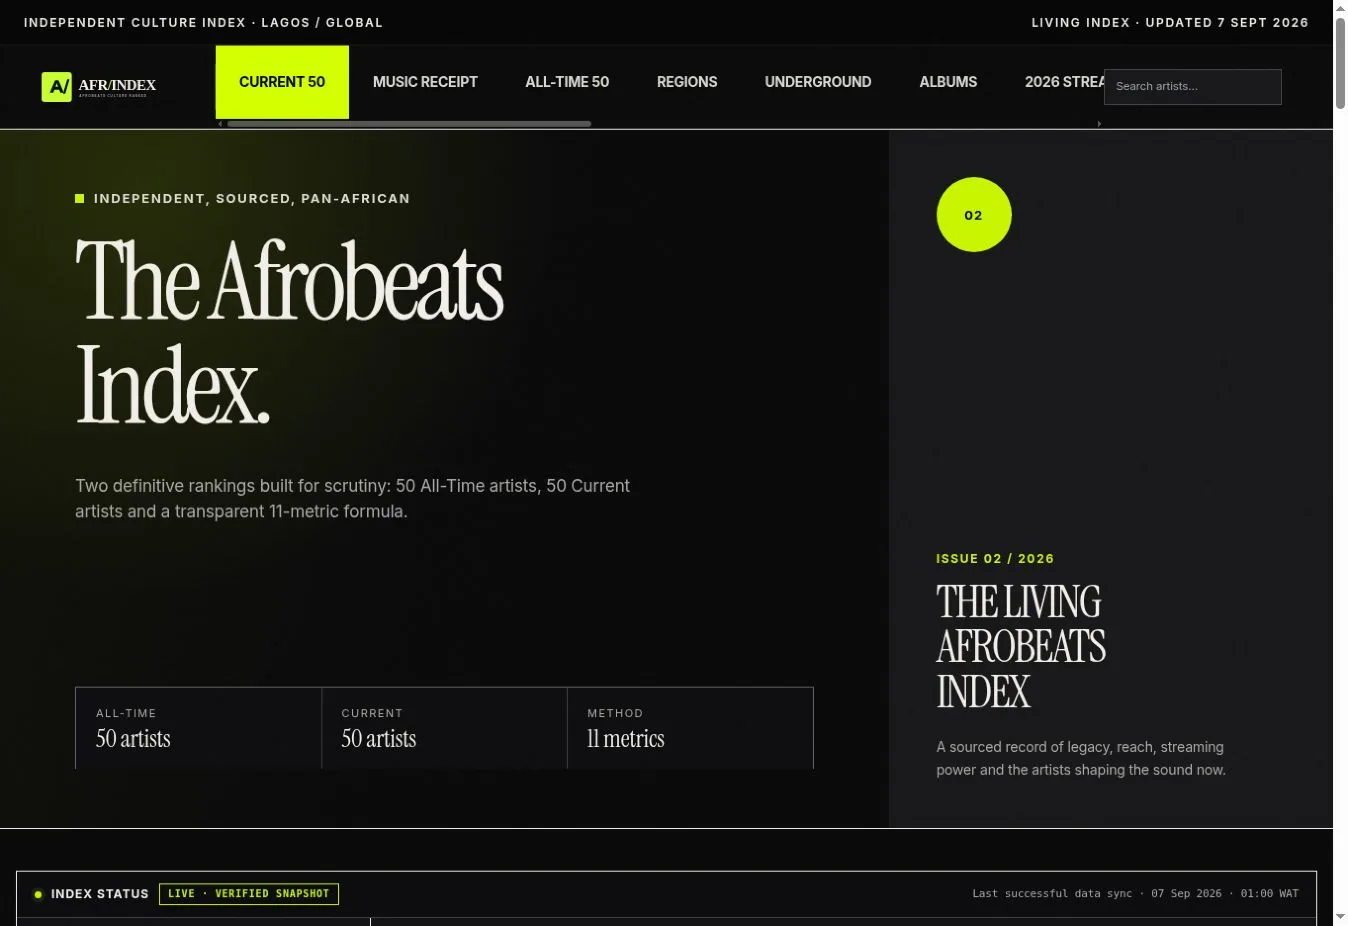
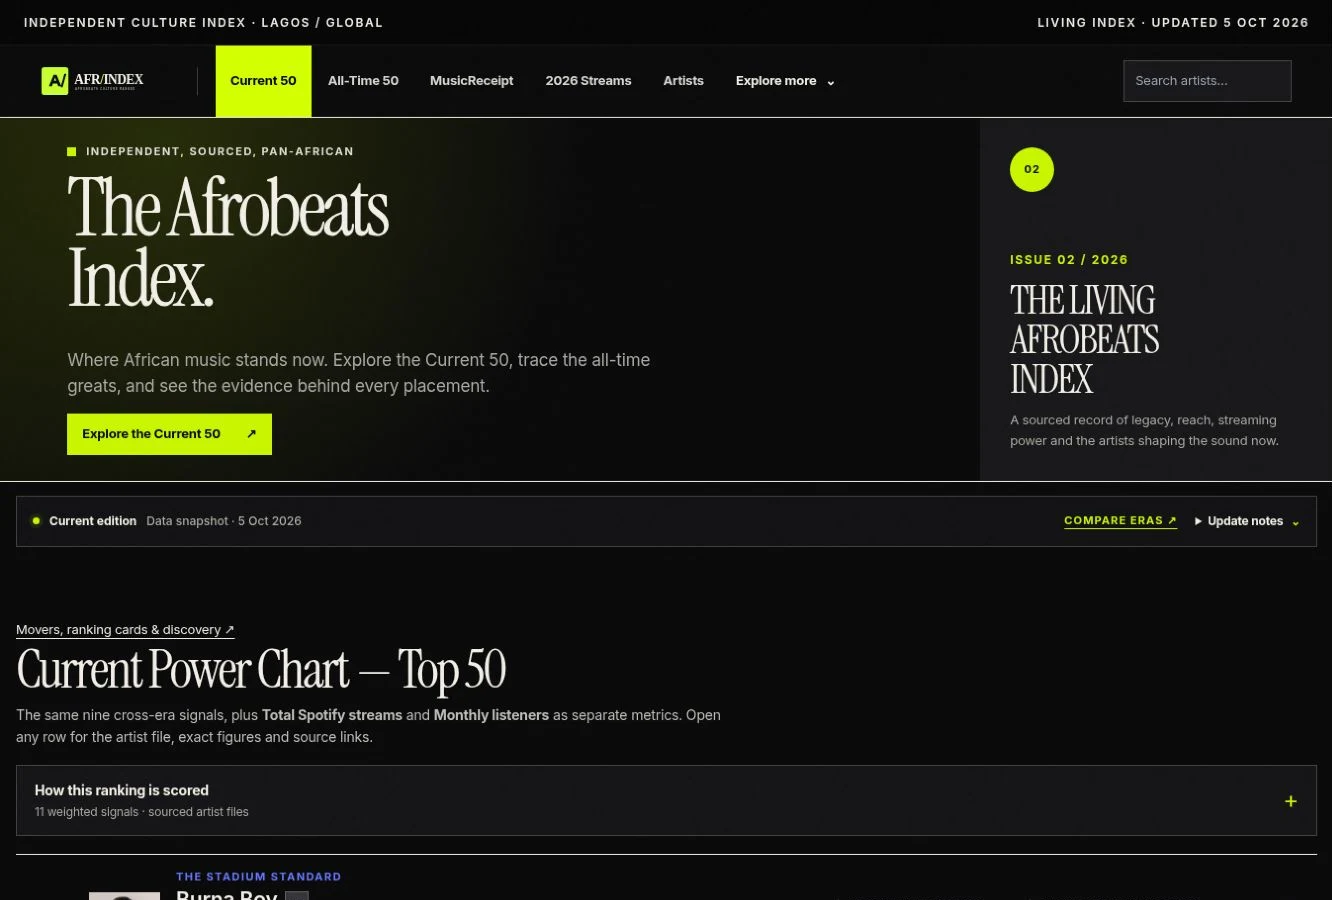
Feature recent portfolio work, services and direct contact
Add Matong sample ERP, wedding invitation and Dev Boyz case studies; prioritize Matong, Afri Index and TerraScope. Refresh atlas/music previews, document current trip planning, and add services plus WhatsApp contact.

diff --git a/src/projects.ts b/src/projects.ts
@@ -2,11 +2,57 @@ export type Project = {
   id: string; title: string; tags: string[]; status: string; why: string;
   built: string; learned: string; challenge: string; outcome: string; tech: string[];
   links: { label: string; href: string }[];
-  image?: string; previewNote?: string;
+  image?: string; previewNote?: string; role?: string; summary?: string;
   companion?: { title: string; description: string; href: string; github: string; image?: string };
 };
 
 export const projects: Project[] = [
+  {
+    id: "matong",
+    title: "Matong Energy — Operations ERP",
+    tags: ["Client project", "Business systems", "Full-stack"],
+    status: "Working ERP · handover in progress",
+    role: "Interface, application workflows & database integration",
+    summary: "Personnel, purchasing, inventory and finance in one workspace, with permissions enforced beyond the interface.",
+    why: "Matong needed its day-to-day operations connected: people, purchase approvals, stock movements, invoices and project records. The system brings those tasks into one workspace with different access for each staff role.",
+    built: "A Next.js operations suite with personnel and leave management, purchasing approvals, warehouse receipts and issues, invoices and payments, engineering tasks, reports and a private document archive. Supabase provides authentication, Postgres and file storage.",
+    learned: "Business rules belong in the database as well as the interface. Role policies, version checks and protected audit records help keep an action consistent even when a request bypasses the screen.",
+    challenge: "Connecting purchasing, stock and finance without allowing duplicate postings, negative stock or one person's edit to silently replace another's. Approval and document access also need to follow the company's actual responsibilities.",
+    outcome: "A working operations suite with six staff roles and a separate browser-local sample workspace. Client handover and production acceptance checks are still in progress.",
+    tech: ["Next.js", "React", "TypeScript", "Supabase Auth", "PostgreSQL", "Row-level security", "Private storage"],
+    links: [{ label: "Explore sample workspace", href: "https://matong-erp.vercel.app/demo" }],
+    previewNote: "The linked demo uses sample records stored in your browser. It is separate from the company's staff portal and private documents.",
+  },
+  {
+    id: "wedding",
+    title: "#BlessingFoundHerBlessing — Wedding Website",
+    tags: ["Event website", "Design & development"],
+    status: "Live invitation website",
+    role: "Visual design, responsive pages & event information",
+    why: "The families needed one place guests could find the traditional marriage details, read the couple's story and plan their visit. The invitation had to feel personal while making the practical information easy to reach.",
+    built: "A multi-page invitation with supplied photography, the couple's story, a countdown, programme, aso ebi information, venue directions and an Add to Calendar download. Burgundy, peach, champagne and ivory connect the pages to the celebration.",
+    learned: "An event website has two jobs: carry the family's voice and help a guest make a plan. Clear dates, readable names and direct navigation matter as much as the opening photograph.",
+    challenge: "Balancing the long hashtag, photographs and event information on small screens, while keeping navigation and the calendar action within easy reach.",
+    outcome: "A live invitation for the 12 December 2026 traditional marriage in Ughelli, with event details and calendar access across the public pages.",
+    tech: ["Next.js", "React", "TypeScript", "Responsive design", "Calendar integration", "Vercel"],
+    links: [{ label: "View invitation", href: "https://sample-wedding-mu.vercel.app" }],
+    previewNote: "Explore the live pages for the photographs, story, programme and directions. The calendar button downloads the event to your calendar app.",
+  },
+  {
+    id: "dev-boyz",
+    title: "Dev Boyz — Company & Project Library",
+    tags: ["Team project", "Company website", "Catalogue"],
+    status: "Live website · enquiry catalogue",
+    role: "Frontend & cloud engineering · Dev Boyz team",
+    why: "My team needed a clear introduction to our services and a place for students to explore software project ideas. The site connects those two audiences without making either hunt for the right next step.",
+    built: "A company website with services, selected work, team profiles and an enquiry flow, alongside a searchable library of 100 Computer Science and Software Engineering project topics. Visitors can filter topics and discuss the scope through WhatsApp.",
+    learned: "A catalogue needs useful categories and clear deliverables. The company pages explain who we are; the project library helps visitors narrow their idea before they speak to us.",
+    challenge: "Making 100 topics easy to browse on a phone while keeping the company website focused. The catalogue uses enquiries rather than presenting topics as ready-to-download purchases.",
+    outcome: "A live company presence and project enquiry catalogue. Scope, price and delivery are agreed with the team; automated checkout and instant project downloads are not part of the current site.",
+    tech: ["HTML", "CSS", "JavaScript", "JSON catalogue", "Responsive design", "Vercel"],
+    links: [{ label: "Visit Dev Boyz", href: "https://dev-boyz.vercel.app" }, { label: "Browse project topics", href: "https://dev-boyz.vercel.app/projects.html" }],
+    previewNote: "The company site introduces the team and services. The project library supports searching, filtering and a direct enquiry about a chosen topic.",
+  },
   {
     id: "squadhub",
     previewNote: "Mobile player platform and web organizer in development. The previous browser preview requires a Vercel login.",
@@ -87,6 +133,8 @@ export const projects: Project[] = [
   },
   {
     id: "afri-index",
+    role: "Product design, frontend development & editorial data",
+    summary: "A sourced Afrobeats index that makes its rankings, artist records and methodology open to inspection.",
     image: "/previews/afri.webp",
     title: "AFR/INDEX — The Living Afrobeats Index",
     tags: ["Editorial Data", "Music Analytics", "Frontend"],
@@ -121,15 +169,17 @@ export const projects: Project[] = [
   },
   {
     id: "terrascope",
+    role: "Product design, frontend development & structured content",
+    summary: "An interactive world atlas with country comparisons, travel guides and a practical itinerary planner.",
     image: "/previews/terra.webp",
     title: "TerraScope — Living World Encyclopedia",
     tags: ["Next.js", "Interactive Data", "Editorial Research"],
     status: "Redesigned & live",
     why: "I wanted a world atlas that felt worth exploring, not another page of copied country facts. The idea was to connect the numbers to the people, places, sports and stories that make each country recognisable.",
-    built: "A 195-country encyclopedia with an interactive political world map, country rankings, comparison tools, travel guides and detailed profiles. The People archive now includes 63 footballers across new generation, modern icon and legend eras, with searchable filters and expandable dossiers.",
+    built: "A 195-country encyclopedia with an interactive political world map, rankings, comparisons, travel guides and detailed profiles. A searchable football archive sits alongside a trip planner for selecting activities, estimating a budget and saving a day-by-day itinerary.",
     learned: "Country data looks clean only after a lot of decisions. Names, borders, population years, currencies and rankings all arrive in different formats. I learned to separate structured records from editorial writing so the facts can update without flattening every country into the same template.",
     challenge: "Keeping the project detailed without turning it into a wall of text. The hardest part was making 195 country records consistent while still giving the deeper profiles and football archive enough personality and context.",
-    outcome: "A portfolio-scale living atlas with interactive discovery, eight ranking lenses, 195 country records and an extensive football archive covering 63 current and historic players.",
+    outcome: "A living atlas with eight ranking lenses, 195 country records and a football archive. The public trip planner saves plans in the visitor's browser and exports itineraries; activity allowances are editable estimates, and the site does not make bookings.",
     tech: ["Next.js", "React", "TypeScript", "SVG Maps", "World Countries", "Responsive UI", "Vercel"],
     links: [
       { label: "GitHub", href: "https://github.com/codeWithGojo/terrascope-world-encyclopedia" },
@@ -165,3 +215,8 @@ export const projects: Project[] = [
     links: [{ label: "GitHub", href: "https://github.com/codeWithGojo/fpl-squad-command-centre" }, { label: "Live demo", href: "https://fpl-squad-command-centre.vercel.app" }],
   },
 ];
+
+// Keep the featured work first without discarding the rest of the project archive.
+const projectOrder = ["matong", "afri-index", "terrascope", "wedding", "dev-boyz", "expenseai", "firesafe", "squadhub", "cantica", "afri-studio", "nairascope", "fpl", "predictarena"];
+projects.sort((a, b) => projectOrder.indexOf(a.id) - projectOrder.indexOf(b.id));
+export const featuredProjects = projects.slice(0, 3);

diff --git a/src/styles.css b/src/styles.css
@@ -138,6 +138,22 @@ body::before { content: ""; position: fixed; inset: 0; z-index: -3; pointer-even
 
 .projects-section { padding-bottom: 2rem; background: color-mix(in srgb, var(--bg-deep) 68%, transparent); border-block: 1px solid var(--line); }
 .project-heading { margin-bottom: 2.5rem; }
+.featured-work { display: grid; gap: 1.25rem; margin-bottom: 3rem; }
+.featured-project { display: grid; grid-template-columns: minmax(0, 1fr) minmax(0, 1.1fr); gap: 2rem; align-items: center; padding-block: 1.25rem; border-top: 1px solid var(--line); }
+.featured-project > img { display: block; width: 100%; aspect-ratio: 16 / 10; object-fit: cover; object-position: top; border: 1px solid var(--line); border-radius: .4rem; }
+.featured-type { display: flex; flex-direction: column; justify-content: space-between; gap: 1.5rem; aspect-ratio: 16 / 10; padding: clamp(1.25rem, 3vw, 2rem); background: var(--panel); border: 1px solid var(--line); border-left: 3px solid var(--accent); border-radius: .4rem; }
+.featured-type > span, .featured-type > small { color: var(--muted); font-size: .8rem; letter-spacing: .06em; }
+.featured-type > strong { font-size: clamp(1.5rem, 3vw, 2.5rem); line-height: 1.12; letter-spacing: -.035em; font-weight: 550; }
+.featured-label { color: var(--accent-bright); font-size: .8rem; }
+.featured-copy h3 { margin: .8rem 0; font-size: clamp(1.6rem, 2.8vw, 2.25rem); letter-spacing: -.04em; font-weight: 550; }
+.featured-copy p { max-width: 30rem; margin: 0 0 1.25rem; color: var(--muted); line-height: 1.7; }
+.featured-action { display: inline-flex; align-items: center; gap: .6rem; min-height: 44px; color: var(--text); font-size: .875rem; }
+.featured-action svg { width: 1rem; height: 1rem; transition: transform .2s; }
+.featured-project:hover .featured-action { color: var(--accent-bright); }
+.featured-project:hover .featured-action svg { transform: translate(2px, -2px); }
+.archive-label { margin: 0 0 1rem; color: var(--muted); font-size: .875rem; }
+.project-role { display: flex; flex-wrap: wrap; gap: .5rem 1.25rem; margin: 0 0 1.5rem 12%; color: var(--muted); font-size: .875rem; line-height: 1.6; }
+.project-role > span { color: var(--text); font-weight: 600; }
 .projects-list { border-top: 1px solid var(--line); }
 .project { padding-block: 3.5rem; border-bottom: 1px solid var(--line); }
 .project-top { display: grid; grid-template-columns: .12fr 1fr auto; gap: 2rem; align-items: start; }
@@ -147,7 +163,7 @@ body::before { content: ""; position: fixed; inset: 0; z-index: -3; pointer-even
 .project-tags span { color: var(--faint); text-transform: uppercase; font-size: .66rem; letter-spacing: .1em; }
 .project-tags span + span::before { content: "·"; margin-right: .45rem; color: var(--accent-bright); }
 .project-status { display: inline-flex; align-items: center; gap: .45rem; color: var(--muted); font-size: .7rem; text-transform: uppercase; letter-spacing: .08em; white-space: nowrap; padding: .55rem .75rem; border: 1px solid var(--line); border-radius: 999px; }
-.project-status i { width: .38rem; height: .38rem; border-radius: 50%; background: #71c58b; box-shadow: 0 0 0 3px rgba(113,197,139,.1); }
+.project-status i { width: .38rem; height: .38rem; border-radius: 50%; background: currentColor; }
 .why-note { display: grid; grid-template-columns: .35fr 1fr; gap: 2rem; max-width: 950px; margin: 2rem 0 2rem 12%; padding: 1.5rem 0; border-block: 1px solid var(--line); }
 .why-note > span, .project-notes span, .project-outcome > span { color: var(--accent-bright); text-transform: uppercase; letter-spacing: .13em; font-size: .66rem; font-weight: 650; }
 .why-note p { margin: 0; color: var(--text); font-family: Georgia, serif; font-size: clamp(1.15rem, 1.9vw, 1.45rem); line-height: 1.55; font-style: italic; text-wrap: pretty; }
@@ -167,6 +183,19 @@ body::before { content: ""; position: fixed; inset: 0; z-index: -3; pointer-even
 .project-links svg { width: .85rem; height: .85rem; }
 
 .background-grid { display: grid; grid-template-columns: .75fr 1.25fr; gap: clamp(3rem, 8vw, 8rem); }
+.services-layout { display: grid; grid-template-columns: minmax(0, .9fr) minmax(0, 1.1fr); gap: clamp(2rem, 6vw, 5rem); }
+.services-intro h2 { margin: 0; font-size: clamp(2rem, 3.4vw, 3.25rem); line-height: 1.08; letter-spacing: -.05em; font-weight: 520; }
+.services-intro > p { color: var(--muted); line-height: 1.75; margin: 1.5rem 0; }
+.services-intro .team-note { font-size: .875rem; }
+.team-note a { color: var(--text); text-decoration: underline; text-underline-offset: .2rem; }
+.services-list { border-top: 1px solid var(--line); }
+.services-list article { padding: 1.5rem 0; border-bottom: 1px solid var(--line); }
+.services-list h3 { margin: 0; font-size: 1.2rem; letter-spacing: -.025em; font-weight: 550; }
+.services-list p { color: var(--muted); line-height: 1.7; margin: .8rem 0 .5rem; }
+.service-example { display: inline-flex; align-items: center; gap: .6rem; min-height: 44px; font-size: .875rem; color: var(--accent-bright); }
+.service-example:hover { text-decoration: underline; text-underline-offset: .25rem; }
+.contact-actions { display: flex; align-items: center; flex-wrap: wrap; gap: .75rem; }
+.contact-actions svg { width: 1rem; height: 1rem; }
 .background-heading { position: sticky; top: 8rem; align-self: start; }
 .background-heading h2 { margin: 0; font-size: clamp(2rem, 3.4vw, 3.25rem); line-height: 1.05; letter-spacing: -.05em; font-weight: 520; }
 .background-heading > p { max-width: 25rem; margin: 1.5rem 0 0; color: var(--muted); line-height: 1.7; }
@@ -204,7 +233,7 @@ body::before { content: ""; position: fixed; inset: 0; z-index: -3; pointer-even
   .social-rail { display: none; }
   .mobile-theme { display: block; min-height: 44px; padding: .65rem .9rem; border: 0; background: transparent; color: var(--muted); cursor: pointer; }
   .shell, .proof-strip { width: min(920px, calc(100% - 4rem)); margin-inline: auto; }
-  .project-notes, .why-note, .project-outcome, .project-footer { margin-left: 0; }
+  .project-notes, .why-note, .project-outcome, .project-footer, .project-role { margin-left: 0; }
   .hero-intro { grid-template-columns: minmax(0, 1.2fr) minmax(210px, .7fr); gap: 2rem; }
 }
 
@@ -231,12 +260,14 @@ body::before { content: ""; position: fixed; inset: 0; z-index: -3; pointer-even
   .proof-strip div { border-right: 0; border-bottom: 1px solid var(--line); }
   .proof-strip div:last-child { border-bottom: 0; }
   .section { padding-block: 3.5rem; }
-  .about-layout, .section-heading { grid-template-columns: 1fr; gap: 2rem; }
+  .about-layout, .section-heading, .services-layout, .featured-project { grid-template-columns: 1fr; gap: 2rem; }
+  .featured-project { gap: 1.25rem; padding-block: 1.5rem; }
+  .featured-type { aspect-ratio: auto; min-height: 15rem; }
   .skill-row { grid-template-columns: 2rem 1fr; gap: .8rem 1rem; }
   .skill-row > p, .skill-row .tool-list { grid-column: 2; }
   .tool-list { justify-content: flex-start; }
   .project-top { grid-template-columns: 2rem 1fr; gap: 1rem; }
-  .project-status { grid-column: 2; justify-self: start; }
+  .project-status { grid-column: 2; justify-self: start; max-width: 100%; white-space: normal; line-height: 1.5; }
   .why-note, .project-outcome { grid-template-columns: 1fr; gap: .8rem; }
   .project-notes { grid-template-columns: 1fr; }
   .project-notes > div, .project-notes > div + div { padding: 1.5rem 0; border-right: 0; border-bottom: 1px solid var(--line); }
@@ -299,7 +330,7 @@ body::before { content: ""; position: fixed; inset: 0; z-index: -3; pointer-even
 @media (max-width: 1040px) { .project-preview, .preview-note, .project-details, .companion-project { margin-left: 0; } }
 @media (max-width: 760px) {
   .project-index { gap: .5rem; }
-  .project-index a { padding: .65rem .8rem; font-size: .8rem; }
+  .project-index a { padding: .65rem .8rem; font-size: .8rem; max-width: 100%; overflow-wrap: anywhere; }
   .project-details summary > span { display: block; margin: .5rem 0 0; }
   .companion-project { grid-template-columns: 1fr; padding: 1rem; }
   .preview-open { bottom: .6rem; right: .6rem; font-size: .8rem; }
@@ -308,3 +339,12 @@ body::before { content: ""; position: fixed; inset: 0; z-index: -3; pointer-even
   .hero-copy, .contact-cards strong { overflow-wrap: anywhere; }
 }
 @media (prefers-reduced-motion: reduce) { .project-preview img { transition: none; } }
+
+@media (min-width: 761px) and (max-width: 960px) {
+  .site-header { grid-template-columns: 1fr auto; }
+  .menu-toggle { display: grid; }
+  .nav-pill { position: absolute; top: 4.5rem; right: 1.25rem; display: none; min-width: 12rem; padding: .5rem; border-radius: 1rem; flex-direction: column; align-items: stretch; }
+  .nav-pill.is-open { display: flex; }
+  .nav-pill a, .mobile-theme { min-height: 44px; padding: .8rem 1rem; text-align: left; }
+}
+@media (prefers-reduced-motion: reduce) { .featured-action svg { transition: none; } .featured-project:hover .featured-action svg { transform: none; } }

diff --git a/src/App.tsx b/src/App.tsx
@@ -1,5 +1,12 @@
 import { useEffect, useRef, useState } from "react";
-import { projects } from "./projects";
+import { featuredProjects, projects } from "./projects";
+
+const whatsappHref = "https://wa.me/2347062723107";
+const services = [
+  { title: "Business & event websites", description: "Company sites, school websites, portfolios and invitations. Clear content, a considered visual identity and an easy way for visitors to reach you.", example: "See the wedding website", project: "wedding" },
+  { title: "Web apps & business systems", description: "Dashboards, staff portals and tools that connect your team's daily work. We agree the workflows, access and reports before the build.", example: "Explore Matong ERP", project: "matong" },
+  { title: "Existing website improvements", description: "A clearer layout, better mobile navigation or a feature your current site needs. Share the link and the part that's getting in the way.", example: "See TerraScope", project: "terrascope" },
+];
 
 const skills = [
   {
@@ -84,6 +91,7 @@ export default function Home() {
           <a href="#about" onClick={() => setMenuOpen(false)}>About</a>
           <a href="#skills" onClick={() => setMenuOpen(false)}>Skills</a>
           <a href="#projects" onClick={() => setMenuOpen(false)}>Projects</a>
+          <a href="#services" onClick={() => setMenuOpen(false)}>Services</a>
           <a href="#experience" onClick={() => setMenuOpen(false)}>Background</a>
           <a href="#contact" onClick={() => setMenuOpen(false)}>Contact</a>
           <button className="mobile-theme" onClick={() => setLightMode(!lightMode)}>{lightMode ? "Dark theme" : "Light theme"}</button>
@@ -173,8 +181,17 @@ export default function Home() {
             <div className="section-kicker"><span>03</span><p>Selected projects</p></div>
             <div className="section-heading project-heading">
               <h2>Selected work.</h2>
-              <p>Open a preview or read how each project came together, from the first idea to the problems I had to solve.</p>
+              <p>Start with three projects that show how I approach business workflows, data and interactive interfaces. The full collection follows below.</p>
             </div>
+            <div className="featured-work" aria-label="Featured projects">
+              {featuredProjects.map((project, index) => (
+                <a className="featured-project" key={project.id} href={`#${project.id}`}>
+                  {project.image ? <img src={project.image} alt="" width="1440" height="900" loading="lazy" decoding="async" /> : <div className="featured-type" aria-hidden="true"><span>MATONG ENERGY</span><strong>People.<br />Purchasing.<br />Operations.</strong><small>Business systems</small></div>}
+                  <div className="featured-copy"><span className="featured-label">Featured {String(index + 1).padStart(2, "0")} · {project.tags[0]}</span><h3>{project.title.split(" — ")[0]}</h3><p>{project.summary}</p><span className="featured-action">Read the case study <MarkIcon name="arrow" /></span></div>
+                </a>
+              ))}
+            </div>
+            <p className="archive-label">All projects · {projects.length} builds and ongoing projects</p>
           </div>
 
           <nav className="project-index shell" aria-label="Jump to a project">
@@ -197,12 +214,14 @@ export default function Home() {
                     <img src={project.image} alt={`${project.title} interface screenshot`} width="1440" height="900" loading="lazy" decoding="async" />
                     <span className="preview-open">Enlarge screenshot ↗</span>
                   </button>
-                  <figcaption>Project screenshot · September 2026</figcaption>
+                  <figcaption>Project interface screenshot · open the live preview for its current version</figcaption>
                 </figure> : project.previewNote ? <div className="preview-note"><span>{project.id === "firesafe" ? "ESP32 → Flask → Supabase → Expo" : "Project preview"}</span><p>{project.previewNote}</p></div> : null}
                 <div className="why-note">
                   <span>Why I built it</span>
                   <p>{project.why}</p>
                 </div>
+
+                {project.role && <p className="project-role"><span>My contribution</span>{project.role}</p>}
 
                 <details className="project-details">
                   <summary>Project notes <span>Read the project story</span></summary>
@@ -229,8 +248,16 @@ export default function Home() {
           </div>
         </section>
 
+        <section className="section shell" id="services">
+          <div className="section-kicker"><span>04</span><p>Services</p></div>
+          <div className="services-layout">
+            <div className="services-intro"><h2>What do you need built?</h2><p>Bring a rough idea, a brief or an existing website. I'll help you work through the scope, then agree the deliverables, timeline and cost with you.</p><a className="primary-link" href={whatsappHref} target="_blank" rel="noreferrer">Discuss a project <MarkIcon name="arrow" /></a><p className="team-note">For team projects, I work with <a href="https://dev-boyz.vercel.app" target="_blank" rel="noreferrer">Dev Boyz ↗</a>.</p></div>
+            <div className="services-list">{services.map((service) => <article key={service.title}><h3>{service.title}</h3><p>{service.description}</p><a className="service-example" href={`#${service.project}`}>{service.example} <span aria-hidden="true">↗</span></a></article>)}</div>
+          </div>
+        </section>
+
         <section className="section shell" id="experience">
-          <div className="section-kicker"><span>04</span><p>Background</p></div>
+          <div className="section-kicker"><span>05</span><p>Background</p></div>
           <div className="background-grid">
             <div className="background-heading">
               <h2>A little more about my work.</h2>
@@ -262,13 +289,13 @@ export default function Home() {
             </div>
             <div className="contact-copy">
               <p>Tell me what you’re working on. I’m happy to talk about a website, an app, a role, or one of the projects here.</p>
-              <a className="primary-link" href="mailto:Imegufavour30@gmail.com">Say hello <MarkIcon name="arrow" /></a>
+              <div className="contact-actions"><a className="primary-link" href={whatsappHref} target="_blank" rel="noreferrer">Chat on WhatsApp <MarkIcon name="arrow" /></a><a className="resume-link" href="mailto:Imegufavour30@gmail.com">Send an email <MarkIcon name="mail" /></a></div>
             </div>
           </div>
           <div className="shell contact-cards">
             <a href="mailto:Imegufavour30@gmail.com"><span>Email</span><strong>Imegufavour30@gmail.com</strong></a>
             <a href="https://github.com/codeWithGojo" target="_blank" rel="noreferrer"><span>GitHub</span><strong>github.com/codeWithGojo</strong></a>
-            <div><span>Availability</span><strong>Open to opportunities</strong></div>
+            <a href={whatsappHref} target="_blank" rel="noreferrer"><span>WhatsApp</span><strong>+234 706 272 3107</strong></a>
           </div>
         </section>
       </main>
